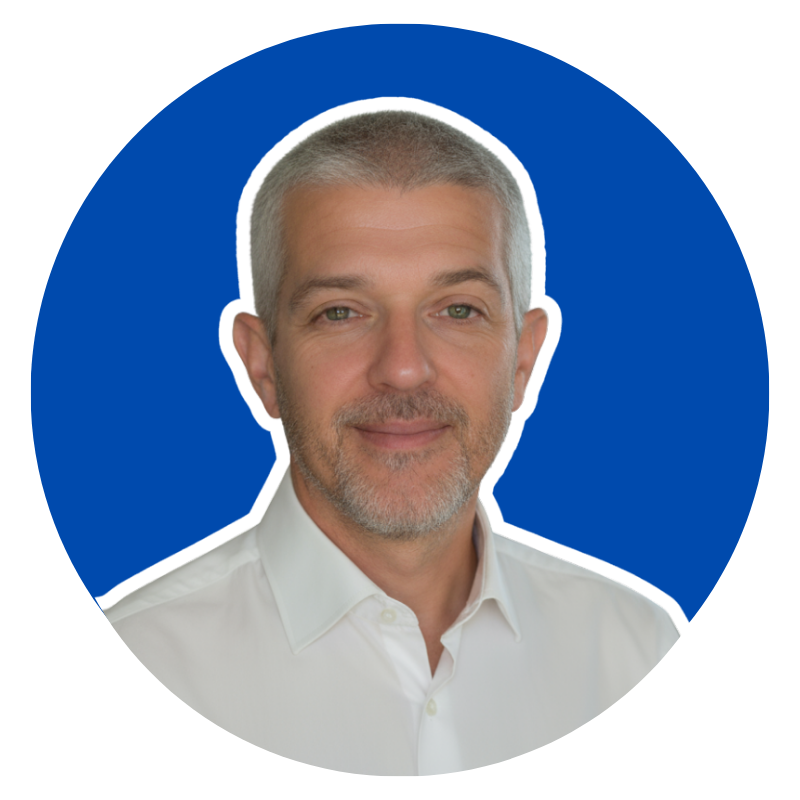
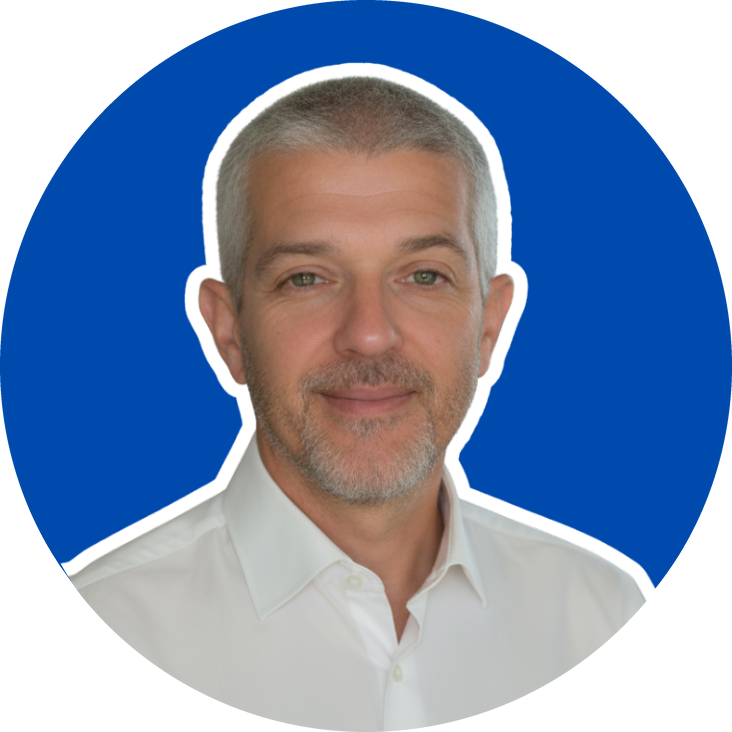
feat: icônes en pastilles à la couleur de marque exacte, modèle Moderne plus compact (photo, CTA, interlignes, largeur, alignement haut)

diff --git a/index.html b/index.html
@@ -872,63 +872,20 @@ function getData() {
 // hébergée en HTTPS — comme la photo/logo déjà uploadés — survit de façon fiable.
 const ICONS_BASE = 'https://signature.10dix.fr/icons';
 
-function hexToRgb(hex) {
-  const h = hex.replace('#', '');
-  return { r: parseInt(h.slice(0, 2), 16), g: parseInt(h.slice(2, 4), 16), b: parseInt(h.slice(4, 6), 16) };
-}
-
-function hexToHsl(hex) {
-  const { r, g, b } = hexToRgb(hex);
-  const rn = r / 255, gn = g / 255, bn = b / 255;
-  const max = Math.max(rn, gn, bn), min = Math.min(rn, gn, bn);
-  const l = (max + min) / 2;
-  let h = 0, s = 0;
-  if (max !== min) {
-    const d = max - min;
-    s = l > 0.5 ? d / (2 - max - min) : d / (max + min);
-    switch (max) {
-      case rn: h = (gn - bn) / d + (gn < bn ? 6 : 0); break;
-      case gn: h = (bn - rn) / d + 2; break;
-      default: h = (rn - gn) / d + 4;
-    }
-    h *= 60;
-  }
-  return { h, s, l };
-}
-
-// Les 8 couleurs prédéfinies (PRESETS) ont un fichier exact (icons/phone-2563eb.png…).
-// Pour toute autre couleur, on retombe sur une grille fine pré-générée (24 teintes ×
-// 3 niveaux de luminosité, + une rampe de gris pour les couleurs peu saturées) : assez
-// dense pour être visuellement indissociable de la couleur de marque exacte, tout en
-// restant des fichiers statiques fiables (voir commentaire plus haut).
-const GRID_HUE_STEP = 15;
-const GRID_LIGHT_BANDS = [30, 45, 60];
-const GRID_GRAY_BANDS = [10, 25, 40, 55, 70, 85];
-
-function nearestBand(value, bands) {
-  return bands.reduce((a, b) => (Math.abs(b - value) < Math.abs(a - value) ? b : a));
-}
-
-function iconSwatch(hex) {
-  const exact = PRESETS.find(p => p.toLowerCase() === hex.toLowerCase());
-  if (exact) return exact.replace('#', '').toLowerCase();
-  const { h, s, l } = hexToHsl(hex);
-  if (s < 0.12) return `gray-l${nearestBand(l * 100, GRID_GRAY_BANDS)}`;
-  const hue = (Math.round(h / GRID_HUE_STEP) * GRID_HUE_STEP) % 360;
-  return `h${hue}-l${nearestBand(l * 100, GRID_LIGHT_BANDS)}`;
-}
-
+// La couleur exacte de marque ne peut pas être « cuite » dans un fichier statique :
+// elle est donc portée par le fond de la pastille (bgcolor/background, comme le
+// bandeau du modèle Moderne) et seul le pictogramme blanc est une image hébergée.
 function cIcon(type, color) {
   const key = ['phone', 'email', 'web', 'pin'].includes(type) ? type : 'pin';
-  const swatch = iconSwatch(color);
-  return `<img src="${ICONS_BASE}/${key}-${swatch}.png" width="14" height="14" alt="" style="display:inline-block;vertical-align:middle;margin-right:5px;margin-bottom:2px">`;
+  return `<span style="display:inline-block;background:${color};background-color:${color};border-radius:4px;padding:3px;line-height:0;vertical-align:middle;margin-right:6px;margin-bottom:2px">` +
+    `<img src="${ICONS_BASE}/${key}-white.png" width="10" height="10" alt="" style="display:block;width:10px;height:10px;border:0"></span>`;
 }
 
 const SOCIALS = {
   linkedin  : { bg:'#0077B5' },
   twitter   : { bg:'#000000' },
   instagram : { bg:'#E1306C' },
-  facebook  : { bg:'#1877F2' },
+  facebook  : { bg:'#1877F2', glyph:'facebook-f' },
   youtube   : { bg:'#FF0000' },
   github    : { bg:'#333333' },
   tiktok    : { bg:'#010101' },
@@ -937,15 +894,16 @@ const SOCIALS = {
 function socialIconsHTML(d) {
   const nets = Object.keys(SOCIALS).filter(k => safeHref(d[k]));
   if (!nets.length) return '';
-  // Tuile PNG pré-colorée (fond + pictogramme blanc) : la couleur ne dépend plus d'un
-  // fond CSS que Gmail mobile / mode sombre peut repeindre.
-  const suffix = iconMode === 'brand' ? iconSwatch(d.color || '#2563EB') : 'native';
+  const brandColor = d.color || '#2563EB';
   const cells = nets.map(k => {
+    const s   = SOCIALS[k];
+    const bg  = iconMode === 'brand' ? brandColor : s.bg;
     const href = safeHref(d[k]);
     return `<td style="padding:0 5px 0 0">` +
       `<a href="${href}" target="_blank" rel="noopener" style="text-decoration:none;display:block">` +
-      `<img src="${ICONS_BASE}/social-${k}-${suffix}.png" width="26" height="26" alt="${k}" style="display:block;width:26px;height:26px;border:0">` +
-      `</a></td>`;
+      `<table cellpadding="0" cellspacing="0" border="0"><tr><td bgcolor="${bg}" style="background:${bg};width:22px;height:22px;border-radius:5px;text-align:center;vertical-align:middle;line-height:0">` +
+      `<img src="${ICONS_BASE}/social-${s.glyph || k}.png" width="13" height="13" alt="${k}" style="display:block;width:13px;height:13px;margin:4px auto;border:0">` +
+      `</td></tr></table></a></td>`;
   }).join('');
   return `<table cellpadding="0" cellspacing="0" border="0"><tr>${cells}</tr></table>`;
 }
@@ -1100,35 +1058,35 @@ function genModern(d, color, name) {
   // bgcolor (attribut HTML, pas juste CSS) + fond blanc porté par la cellule plutôt
   // qu'une bordure CSS : Gmail en mode sombre repeint sinon border:white en gris.
   const photo = photoSrc
-    ? `<table cellpadding="0" cellspacing="0" border="0"><tr><td bgcolor="#ffffff" style="background:#ffffff;border-radius:50%;padding:2px;line-height:0"><img src="${photoSrc}" width="60" height="60" style="width:60px;height:60px;min-width:60px;max-width:none;border-radius:50%;object-fit:cover;display:block" alt=""></td></tr></table>`
+    ? `<table cellpadding="0" cellspacing="0" border="0"><tr><td bgcolor="#ffffff" style="background:#ffffff;border-radius:50%;padding:2px;line-height:0"><img src="${photoSrc}" width="52" height="52" style="width:52px;height:52px;min-width:52px;max-width:none;border-radius:50%;object-fit:cover;display:block" alt=""></td></tr></table>`
     : '';
   const logo = logoSrc
     ? `<img src="${logoSrc}" height="32" style="height:32px;display:inline-block;max-width:64px;object-fit:contain" alt="">`
     : '';
 
   const lines = [];
-  if (d.phone && safeHref('tel:' + d.phone, true)) lines.push(`${cIcon('phone', color)}<a href="${safeHref('tel:' + d.phone, true)}" target="_blank" rel="noopener" style="color:${color};text-decoration:none;font-family:Arial,sans-serif">${esc(d.phone)}</a>`);
-  if (d.email && safeHref('mailto:' + d.email, true)) lines.push(`${cIcon('email', color)}<a href="${safeHref('mailto:' + d.email, true)}" target="_blank" rel="noopener" style="color:${color};text-decoration:none;font-family:Arial,sans-serif">${esc(d.email)}</a>`);
-  if (safeHref(d.website)) lines.push(`${cIcon('web', color)}<a href="${safeHref(d.website)}" target="_blank" rel="noopener" style="color:${color};text-decoration:none;font-family:Arial,sans-serif">${esc(d.website.replace(/^https?:\/\//, ''))}</a>`);
-  if (d.address) lines.push(`${cIcon('pin', color)}<a href="${mapsLink(d.address)}" target="_blank" rel="noopener" style="color:${color};text-decoration:none;font-family:Arial,sans-serif">${esc(d.address)}</a>`);
+  if (d.phone && safeHref('tel:' + d.phone, true)) lines.push(`${cIcon('phone', color)}<a href="${safeHref('tel:' + d.phone, true)}" target="_blank" rel="noopener" style="color:${color};text-decoration:none;font-size:12px;font-family:Arial,sans-serif">${esc(d.phone)}</a>`);
+  if (d.email && safeHref('mailto:' + d.email, true)) lines.push(`${cIcon('email', color)}<a href="${safeHref('mailto:' + d.email, true)}" target="_blank" rel="noopener" style="color:${color};text-decoration:none;font-size:12px;font-family:Arial,sans-serif">${esc(d.email)}</a>`);
+  if (safeHref(d.website)) lines.push(`${cIcon('web', color)}<a href="${safeHref(d.website)}" target="_blank" rel="noopener" style="color:${color};text-decoration:none;font-size:12px;font-family:Arial,sans-serif">${esc(d.website.replace(/^https?:\/\//, ''))}</a>`);
+  if (d.address) lines.push(`${cIcon('pin', color)}<a href="${mapsLink(d.address)}" target="_blank" rel="noopener" style="color:${color};text-decoration:none;font-size:12px;font-family:Arial,sans-serif">${esc(d.address)}</a>`);
 
   const icons = socialIconsHTML(d);
   const cta = (d.ctaText && safeHref(d.ctaLink))
-    ? `<div style="margin-top:10px"><a href="${safeHref(d.ctaLink)}" target="_blank" rel="noopener" style="display:inline-block;background:${color};color:white;padding:7px 12px;border-radius:9px;text-decoration:none;font-size:11.5px;font-weight:400;font-family:Arial,sans-serif">${esc(d.ctaText)}</a></div>`
+    ? `<div style="margin-top:10px"><a href="${safeHref(d.ctaLink)}" target="_blank" rel="noopener" style="display:inline-block;background:${color};color:white;padding:6px 11px;border-radius:8px;text-decoration:none;font-size:10.5px;font-weight:400;font-family:Arial,sans-serif">${esc(d.ctaText)}</a></div>`
     : '';
 
   // Logo sous la photo (pas en 3e colonne) : le texte garde la largeur sur petit écran.
   const leftCell = (photo || logo)
-    ? `<td align="center" style="padding-right:12px;vertical-align:middle;text-align:center">${photo}${logo ? `<div style="margin-top:${photo ? 8 : 0}px;text-align:center">${logo}</div>` : ''}</td>`
+    ? `<td align="center" valign="top" style="padding-right:12px;vertical-align:top;text-align:center">${photo}${logo ? `<div style="margin-top:${photo ? 8 : 0}px;text-align:center">${logo}</div>` : ''}</td>`
     : '';
 
-  return `<table cellpadding="0" cellspacing="0" border="0" style="font-family:Arial,sans-serif;width:100%;max-width:460px;border-radius:10px;overflow:hidden">
+  return `<table cellpadding="0" cellspacing="0" border="0" style="font-family:Arial,sans-serif;width:100%;max-width:400px;border-radius:10px;overflow:hidden">
   <tr>
     <td bgcolor="${color}" style="background:${color};padding:14px 14px;border-radius:10px 10px 0 0">
       <table cellpadding="0" cellspacing="0" border="0" width="100%">
         <tr>
           ${leftCell}
-          <td width="100%" style="vertical-align:middle">
+          <td width="100%" valign="top" style="vertical-align:top">
             ${name ? `<div style="color:white;font-size:16px;line-height:19px;font-weight:700;font-family:Arial,sans-serif">${esc(name)}</div>` : ''}
             ${d.jobTitle ? `<div style="color:rgba(255,255,255,0.78);font-size:12px;line-height:16px;font-family:Arial,sans-serif">${esc(d.jobTitle)}</div>` : ''}
             ${d.company  ? `<div style="color:rgba(255,255,255,0.78);font-size:11px;line-height:19px;font-family:Arial,sans-serif">${esc(d.company)}</div>` : ''}
@@ -1140,7 +1098,7 @@ function genModern(d, color, name) {
   </tr>
   <tr>
     <td bgcolor="#ffffff" style="background:#ffffff;padding:12px 14px;border:1px solid #e8e8e8;border-top:none;border-radius:0 0 10px 10px">
-      ${lines.length ? `<div style="font-size:12px;color:#555;line-height:2;margin-bottom:8px;font-family:Arial,sans-serif">${lines.join('<br>')}</div>` : ''}
+      ${lines.length ? `<div style="font-size:12px;color:#555;line-height:1.75;margin-bottom:8px;font-family:Arial,sans-serif">${lines.join('<br>')}</div>` : ''}
       ${icons ? `<div style="margin-bottom:8px">${icons}</div>` : ''}
       ${cta}
     </td>
